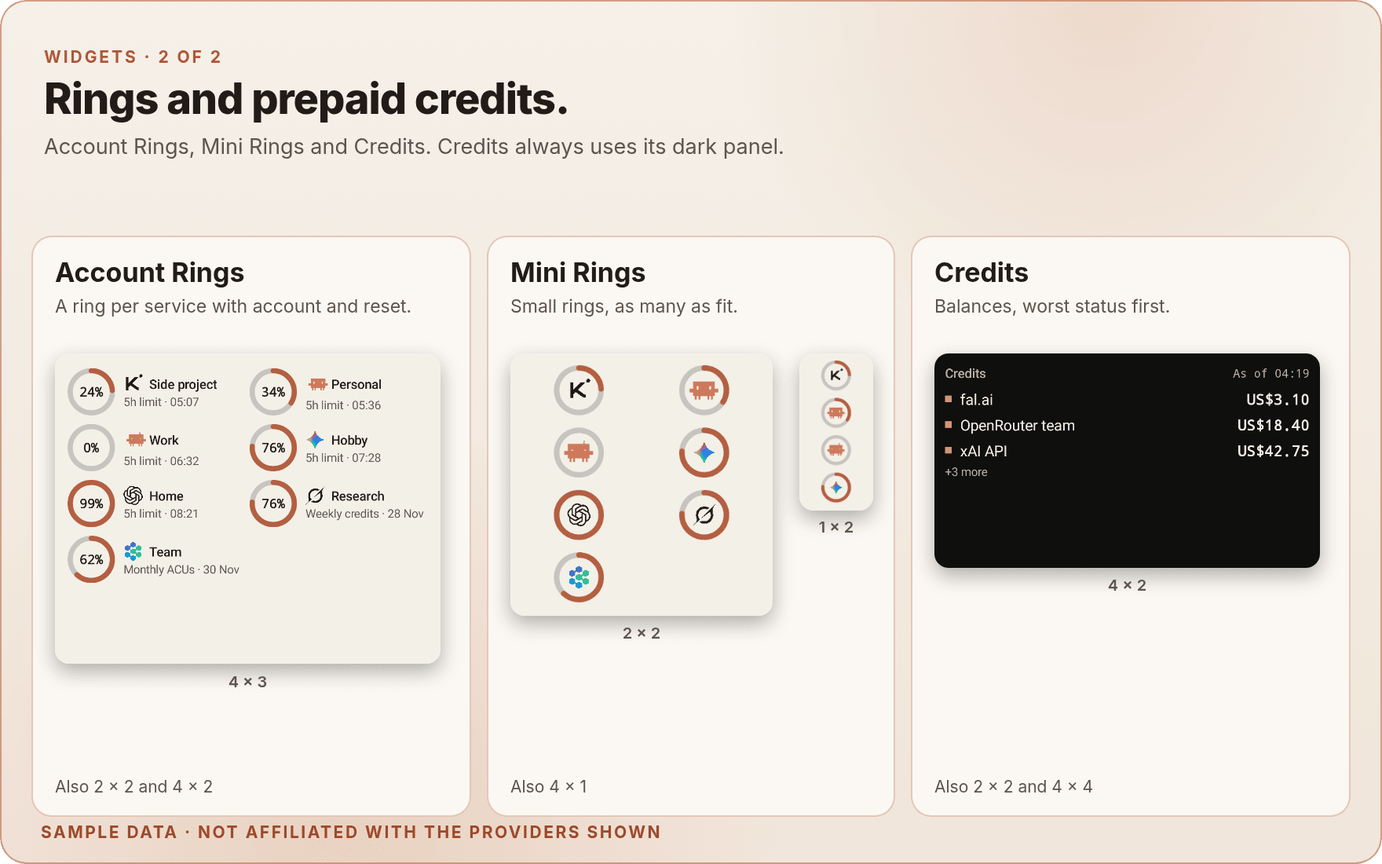
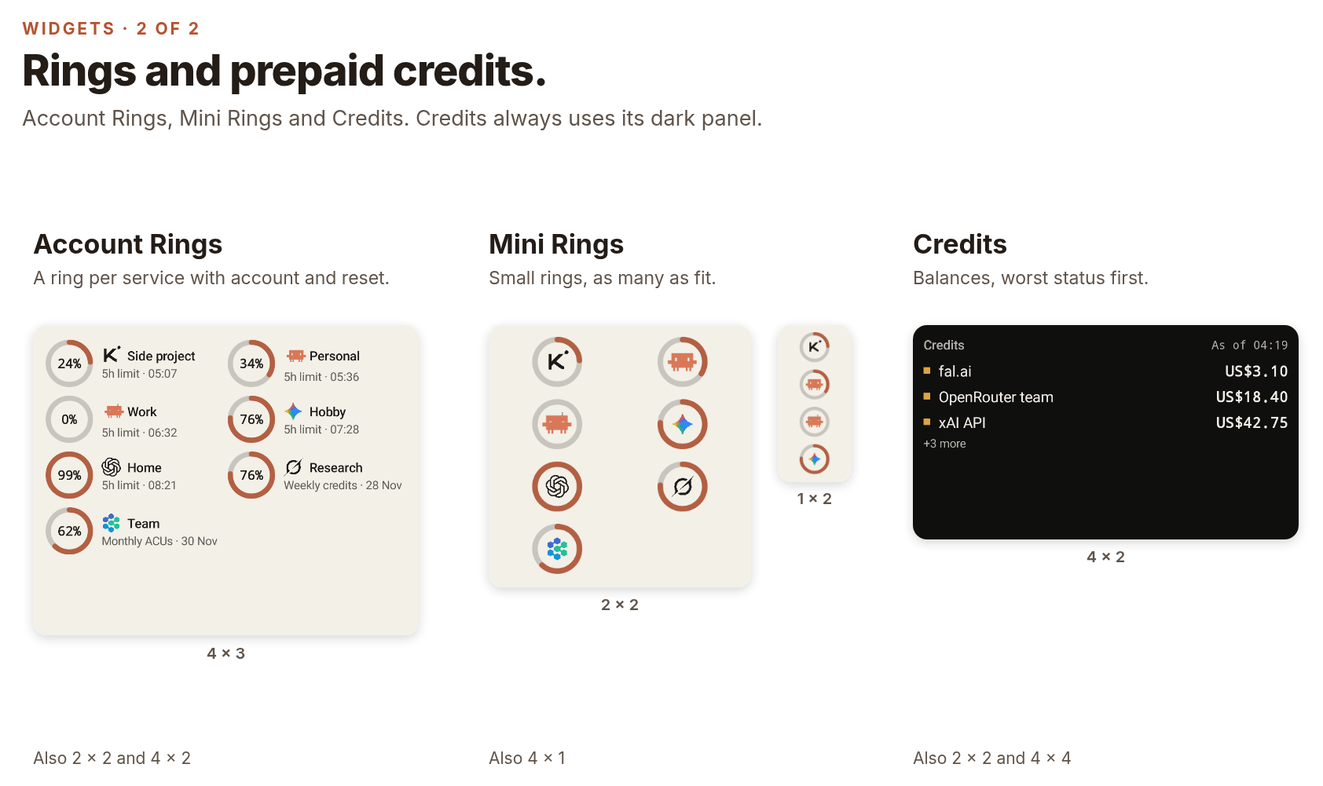
Restructure the README around the transparent 0.5.0 image set.
Replace the on-image footer and card backgrounds with tightly cropped
transparent light/dark PNG (and WebP) pairs. Condense the README to six
H2 sections, a nav line under the hero, and a compact badge row that
puts the v0.4.1 Orion Store button next to GitHub Releases and the MIT
badge. Keep the facts, point longer notes at docs and ADRs, and leave
main untouched.

diff --git a/README.md b/README.md
@@ -5,14 +5,12 @@
 <p align="center">Usage readings and reset times for supported AI subscriptions, plus prepaid API balances, in the app and on home-screen widgets.</p>
 
 <p align="center">
-<a href="#build-it-yourself"><img src="docs/01-terracotta/android-badge.png" height="25" alt="Android 8.0+"></a> <a href="#build-it-yourself"><img src="docs/01-terracotta/ios-badge.png" height="25" alt="iOS 16.0+"></a> <a href="#build-it-yourself"><img src="docs/01-terracotta/source-badge.png" height="25" alt="Build from source"></a>
+  <a href="https://rookieenough.github.io/Orion-Data/redirect.html?id=firefin"><img src="https://raw.githubusercontent.com/RookieEnough/Orion-Store/refs/heads/main/assets/orion-badge.png" height="44" alt="Get it on Orion Store"></a>
+  &nbsp;
+  <a href="https://github.com/ZepiGit/Usage-Limit-Viewer-Mobile/releases/tag/v0.5.0"><img src="https://img.shields.io/github/v/release/ZepiGit/Usage-Limit-Viewer-Mobile?label=GitHub%20Releases&style=for-the-badge" height="44" alt="Download v0.5.0 from GitHub Releases"></a>
+  &nbsp;
+  <a href="LICENSE"><img src="https://img.shields.io/github/license/ZepiGit/Usage-Limit-Viewer-Mobile?style=for-the-badge" height="44" alt="MIT license"></a>
 </p>
-
-<p align="center"><a href="#what-the-app-does">What it does</a> · <a href="#supported-services">Services</a> · <a href="#prepaid-credits">Credits</a> · <a href="#widgets">Widgets</a> · <a href="#your-data">Your data</a> · <a href="#build-it-yourself">Build</a></p>
-
-> **[0.5.0 is published](https://github.com/ZepiGit/Usage-Limit-Viewer-Mobile/releases/tag/v0.5.0).** The release carries the signed Android APK and AAB, the R8 mapping and the unsigned iOS archive. Its tag points at `b8d861f`, and `main` has the same source tree. The release workflow passed Android unit tests and lint, the shared Swift tests and the API 37 emulator smoke before packaging. Physical-device checks remain open. See [release evidence and remaining gates](docs/release.md#release-050-checkpoint).
->
-> Install the signed APK from the [0.5.0 release](https://github.com/ZepiGit/Usage-Limit-Viewer-Mobile/releases/tag/v0.5.0), or build from source. A debug APK from an Android run under **Actions** is a separate build; match it to its commit.
 
 <p align="center">
   <picture>
@@ -21,11 +19,18 @@
   </picture>
 </p>
 
-<sub>Screenshots use sample data. Usage Limit Viewer is not affiliated with any of the providers shown; names and logos belong to their owners. Android captures are native Compose views in Pixel 11 and Pixel 11 Pro Fold frames (Pure black and Light paper).</sub>
+<p align="center"><sub>Screenshots use sample data. Usage Limit Viewer is not affiliated with any of the providers shown; names and logos belong to their owners.</sub></p>
 
-## What the app does
+<p align="center"><a href="#features">Features</a> · <a href="#widgets">Widgets</a> · <a href="#services">Services</a> · <a href="#appearance">Appearance</a> · <a href="#your-data">Privacy</a> · <a href="#install">Install</a></p>
+
+## Features
 
 Connect a supported subscription to read its usage windows and reset times. Both native apps have three destinations: **Overview**, **Resets** and **Settings**. Account management starts in Overview; there is no separate Accounts tab.
+
+<picture>
+  <source media="(prefers-color-scheme: dark)" srcset="docs/images/readme/02-overview-dark.png">
+  <img src="docs/images/readme/02-overview-light.png" width="880" alt="Overview as a list and as dials: Claude Max 5x exhausted, Kimi 24%, Claude Pro 34%, Devin 62%, Grok and Antigravity 76% left.">
+</picture>
 
 | Destination | What it shows |
 | :--- | :--- |
@@ -33,43 +38,30 @@ Connect a supported subscription to read its usage windows and reset times. Both
 | Resets | Recorded upcoming resets, grouped by day |
 | Settings | Appearance, display mode, Overview layout, icons, sync and notifications |
 
-The app also supports:
+Choose **Settings → Overview → Layout** for **List** or **Dials**. List shows every usage window and emphasises the account's **headline**. Dials shows one headline ring per account; tap either layout for the same detail screen. Overview sorts automatically, lowest headline first. In List you can filter **All**, **Needs attention** (expired sign-ins only) or **Resets today**. **Settings → Display → Show percentages as** and the Overview chip write the same **Left/Used** choice. More detail lives in the [Overview and Settings notes](docs/widgets.md#percentages-left-or-used) and [ADR 0002](docs/adr/0002-one-account-headline-per-platform.md).
 
-- **Several accounts per service.** Each identity keeps its own usage windows.
-- **Retained readings.** A failed refresh keeps the previous readings and their age. A passed reset is marked **Reset due**, not treated as a fresh allowance.
-- **In German too.** The app and its widgets follow the device language and come in English
-  and German. Names the services report, such as model names, are shown as they arrive.
-- **Status icons.** Pin up to three accounts and see each one's figure next to the clock on
-  Android, or on the Lock Screen on iPhone. Off until you turn it on. See
-  [Status icons](docs/status-icons.md).
-- **No model calls.** The app only asks each service for your usage. It never sends a prompt,
-  so checking your limits never costs you any of them.
+The app also supports several accounts per service, retained readings after a failed refresh (a passed reset is marked **Reset due**, not a fresh allowance), English and German, and it never sends a prompt — it only asks each service for your usage.
 
-<picture>
-  <source media="(prefers-color-scheme: dark)" srcset="docs/images/readme/02-overview-dark.png">
-  <img src="docs/images/readme/02-overview-light.png" width="880" alt="Overview as a list and as dials: Claude Max 5x exhausted, Kimi 24%, Claude Pro 34%, Devin 62%, Grok and Antigravity 76% left.">
-</picture>
+Upcoming resets, grouped by day, with a live countdown:
 
 <picture>
   <source media="(prefers-color-scheme: dark)" srcset="docs/images/readme/03-resets-dark.png">
   <img src="docs/images/readme/03-resets-light.png" width="880" alt="Resets screen: upcoming 5-hour and weekly resets grouped by day, with 24-hour times and live countdowns.">
 </picture>
 
+Every window of one account, including weekly (Opus) and other per-model limits:
+
 <picture>
   <source media="(prefers-color-scheme: dark)" srcset="docs/images/readme/04-account-detail-dark.png">
   <img src="docs/images/readme/04-account-detail-light.png" width="880" alt="Claude Max 5x detail with 5-hour (0% left), weekly (59%) and weekly Opus (37%) limits, next to the Claude Pro detail at 34% left.">
 </picture>
 
-### Status icons
-
-Pin up to three accounts. Each shows its glyph and figure in the Android status bar and notification shade, or on the iPhone Lock Screen. Off until you turn it on. See [Status icons](docs/status-icons.md).
+Pin up to three accounts and see each one's glyph and figure next to the clock on Android, or on the Lock Screen on iPhone. Off until you turn it on. See [Status icons](docs/status-icons.md).
 
 <picture>
   <source media="(prefers-color-scheme: dark)" srcset="docs/images/readme/05-status-bar-icons-dark.png">
   <img src="docs/images/readme/05-status-bar-icons-light.png" width="880" alt="Status bar icon settings with three pinned accounts, the notification shade, and an enlarged status bar: Codex 99% left, Claude exhausted, Grok 76% left.">
 </picture>
-
-### Alerts
 
 The app can warn you below 20% and 10% left, when a limit is exhausted, when a reset is approaching, when credits are low, and when a sign-in has expired. Each alert type can be switched off, including per account.
 
@@ -78,66 +70,70 @@ The app can warn you below 20% and 10% left, when a limit is exhausted, when a r
   <img src="docs/images/readme/06-notifications-light.png" width="880" alt="Alert settings for 20% and 10% warnings, exhausted limits, resets and expired sign-ins, next to three status notifications for Codex, Claude and Grok.">
 </picture>
 
-<a id="android-overview-and-settings"></a>
-
-## Overview and Settings
-
-Choose **Settings → Overview → Layout** for **List** or **Dials**. List shows every usage window and emphasises the account's **headline**. Dials shows one headline ring per account, without filters. Tap either layout's account to open the same detail screen, including every window, refresh, reconnect, alerts and removal. **Show subscription tier** affects List titles, not Dial names. Reset stamps stay visible; there is no Show renewal time switch.
-
-The headline follows [ADR 0002](docs/adr/0002-one-account-headline-per-platform.md): prefer windows not reset due, then global windows, then exhaustion and the lowest known percentage left. An account's status mark can reflect a worse model-specific window without making it the headline.
-
-Overview sorts automatically: expired sign-ins first, then the headline's unrounded percentage left, lowest first. Provider-declared exhaustion ranks as zero; unknown figures come last within each sign-in group. Ties use account-added time, then ID. **Used** does not change this order. There is no manual reorder; pins, Provider-scoped widgets and Custom selections retain their separate [order contracts](docs/adr/0004-automatic-overview-order-and-stored-order.md).
-
-In List, choose one filter:
-
-- **All** shows every usage account.
-- **Needs attention** shows expired sign-ins only, not low or exhausted allowance, stale readings or ordinary refresh failures.
-- **Resets today** shows accounts with a recorded reset after now and before the next local day starts, not the next 24 hours.
-
-Switching to another primary destination or to Dials returns the filter to All; opening an account detail and returning keeps it. The header counts expired sign-ins across all accounts. “All accounts have room” appears only when every headline is current, known, non-exhausted and above 20% left. Its next-reset time comes from connected accounts, independently of the filter.
-
-**Settings → Display → Show percentages as** and the Overview percentage chip write the same **Left/Used** choice. Figures, bar lengths and ring arcs follow it; severity, account order, mood and alert thresholds still follow what is left. [Percentage details](docs/widgets.md#percentages-left-or-used) cover unknown and stale readings. The previews show the chosen display mode and layout without changing real accounts. For prepaid controls and hidden balances on both platforms, see [Credit balances](docs/credits.md#credits-in-overview).
-
-### App appearance and fonts
-
-Under **Settings → Appearance**, both apps offer **Warm dark**, **Pure black** (default), **Cool graphite** and **Light paper**. Android text choices start with system **Roboto**; iOS starts with Apple's **System** text. Both also offer **Roboto Flex**, **IBM Plex Sans** and **Figtree**. Choose **Roboto Mono** (default), **JetBrains Mono** or **IBM Plex Mono** independently for percentages, times and amounts. The preview reacts immediately; no restart is required.
+The same Android build adapts to phones and foldables. On a wide inner display, navigation moves to a side rail. See [Device compatibility](docs/compatibility.md).
 
 <picture>
-  <source media="(prefers-color-scheme: dark)" srcset="docs/images/readme/11-themes-dark.png">
-  <img src="docs/images/readme/11-themes-light.png" width="880" alt="Overview in the Warm dark, Pure black, Cool graphite and Light paper themes, each with a colour swatch and a short description.">
+  <source media="(prefers-color-scheme: dark)" srcset="docs/images/readme/13-foldable-showcase-dark.png">
+  <img src="docs/images/readme/13-foldable-showcase-light.png" width="880" alt="Unfolded Pixel 11 Pro Fold showing the account list with a side navigation rail, plus a smaller unfolded view with the dials layout.">
 </picture>
 
-Open **Font licences** in that section for the six bundled families' offline notices. Their pinned sources, versions, checksums and full licences are in the [canonical font manifest](third_party/fonts/manifest.json) and [font notes](third_party/fonts/README.md). These choices affect the app, not placed widgets or their configuration previews ([ADR 0005](docs/adr/0005-app-and-widget-appearance.md)). iOS bundles the canonical font files and licences in the app only, not its widget extension. The first app-controlled interface waits for saved preferences; iOS shows a neutral root while loading them. This is implemented behavior, not physical cold-launch proof.
+<details>
+<summary>Animated tour (7 screens, Android, sample data)</summary>
 
-On a German device, use **Einstellungen → Übersicht → Layout → Liste/Ringe**, **Anzeige → Prozente anzeigen als**, or **Erscheinungsbild** for **Textschrift**, **Ziffernschrift** and **Schriftlizenzen**. The List filters are **Alle**, **Braucht Aufmerksamkeit** and **Resets heute**.
+<p align="center">
+  <picture>
+    <source media="(prefers-color-scheme: dark)" srcset="docs/images/readme/14-app-tour-dark.webp">
+    <img src="docs/images/readme/14-app-tour-light.webp" width="360" alt="Animated tour on a Pixel 11 through overview list, dials, credits, resets, status bar icons, alerts and appearance.">
+  </picture>
+</p>
 
-### Claude Code mood and Hooray
+</details>
 
-Under **Settings → Provider icons → Claude**, the **Claude Code · Color** and **Claude Code · Monochrome** choices use the account's headline for their figure. Other artwork stays static. Mood uses raw percentage left, never the rounded or Used figure:
+## Widgets
+
+Pick the style that fits your home screen. Each configurable usage widget can show all accounts, one service, one account, or a Custom selection. Every usage widget follows the app's left/used display mode; the Credits widget shows money instead.
 
 <picture>
-  <source media="(prefers-color-scheme: dark)" srcset="docs/images/readme/12-claude-moods-dark.png">
-  <img src="docs/images/readme/12-claude-moods-light.png" width="880" alt="Six Claude Code figure moods: Asleep, Tired, Working, Idle, Dancing and Hooray, with the % left (or, for Hooray, the reset) that triggers each.">
+  <source media="(prefers-color-scheme: dark)" srcset="docs/images/readme/08-widgets-usage-dark.png">
+  <img src="docs/images/readme/08-widgets-usage-light.png" width="880" alt="Usage Summary widget (4×1 and 2×2) for Claude Pro at 34% left, and the Usage Bars widget (4×4 and 2×2) listing accounts by closest reset.">
 </picture>
 
-| Raw headline percentage left | Steady mood |
+<picture>
+  <source media="(prefers-color-scheme: dark)" srcset="docs/images/readme/09-widgets-rings-credits-dark.png">
+  <img src="docs/images/readme/09-widgets-rings-credits-light.png" width="880" alt="Account Rings (4×3), Mini Rings (2×2 and 1×2) and Credits (4×2) widgets with sample data.">
+</picture>
+
+| Style | What it shows |
 | :--- | :--- |
-| 0, or provider-declared exhaustion even with a positive or missing figure | Asleep |
-| Above 0 through 20 | Tired |
-| Above 20 through 50 | Working |
-| Above 50 through 90 | Idle |
-| Above 90 | Dancing |
-| No known figure, without declared exhaustion | Idle |
+| **Usage Summary** | One account in a compact row, with both limits and the next reset |
+| **Usage Bars** | A list of accounts with their bars and reset times |
+| **Account Rings** | A ring around each service's logo, with the name and reset time |
+| **Mini Rings** | Small rings, as many as fit |
+| **Credits** | Prepaid balances, worst status first |
 
-A stale reading or expired sign-in can retain its last mood; passing a reset time is not evidence of a refill. **Animate Claude Code icon** is on by default for the two eligible choices. Turn it off for still poses; Android's **Remove animations** and iOS **Reduce Motion** also stop movement. The figure stops outside its visible, active screen. In Resets it always uses Hooray, including its still pose when motion is off.
+Widgets keep their own appearance when the app's theme or fonts change, and they show cached readings. More about how they stay current: [docs/widgets.md](docs/widgets.md).
 
-Both apps remember a reset only when a new measured reading confirms the same account/window's dated rollover: the previous reading preceded its advertised reset, the new reading reaches or passes it, and the next reset has advanced into the future. An increase in allowance, clock crossing, first reading or failed refresh does not qualify.
+<details>
+<summary>Which widgets work on which iOS version</summary>
 
-At the next qualifying main-app opening, the app claims the mark before refreshing. After the loaded, active screen's first ready placement, each qualifying account with a visible eligible figure gets one shared four-second Hooray presentation. Motion off uses its still pose for the same time. Android counts a process foreground transition with the main activity started; recreation, resume alone and widget configuration do not count. iOS counts initial activation and a return from background to active, not an inactive-only interruption. Returning from browser sign-in counts only when the platform's opening rule applies.
+| Widget | iOS | Notes |
+| :--- | :--- | :--- |
+| **Usage Bars** | 17+ | Small, medium and large. Choose an account, a service or your own selection. |
+| **Account Rings** | 17+ | A grid of rings with names and reset times. |
+| **Mini Rings** | 17+ | Compact rings with logos. |
+| **Credits** | 16+ | Prepaid balances, worst status first; the small tile centers its balance and status. |
+| **Usage Limits** | 16+ | Usage tiles in three sizes, also on the Lock Screen. |
+| **Usage Limits (Clear)** | 16+ | The same tiles on a transparent background. |
+| **Pinned accounts** | 16+ | Up to three pinned accounts on the Lock Screen, as glyph and figure. See [Status icons](docs/status-icons.md). |
+| **Usage Ring** | 16+ | One account as a ring, also as a round Lock Screen widget. |
 
-An interrupted or unseen opportunity does not replay later. Placed Usage Bars, Account Rings and Mini Rings use each account's steady mood, never Hooray; configuration keeps static catalog artwork. Both implementations use the same dated-reset vectors. See [release evidence and remaining device gates](docs/release.md#release-050-checkpoint). Real foreground transitions, first placement and animation pacing still need device checks.
+Usage Limits, Usage Limits (Clear) and Usage Ring pick accounts by the app's own ranking. Pinned accounts shows the accounts you pin in the app. To choose accounts for a Home Screen widget, use the configurable iOS 17 widgets.
 
-## Supported services
+</details>
+
+## Services
+
+Nine subscriptions and six prepaid credit APIs. Both Android and iOS support all nine subscriptions. Not every sign-in has been tried with a real account yet, and Kimi may still need to approve the app's name before its sign-in can read usage (a pasted key works either way).
 
 <picture>
   <source media="(prefers-color-scheme: dark)" srcset="docs/images/readme/10-providers-dark.png">
@@ -156,30 +152,11 @@ An interrupted or unseen opportunity does not replay later. Placed Usage Bars, A
 | **Z.ai GLM Coding Plan** | Five-hour, weekly and monthly limits, on z.ai or bigmodel.cn | API key |
 | **OpenCode Go** | Five-hour, weekly and monthly limits | API key |
 
-Both Android and iOS support all nine. Not every sign-in has been tried with a real account
-yet, and Kimi may still need to approve the app's name before its sign-in can read usage
-(a pasted key works either way).
+For Claude, Codex, Antigravity and Devin you sign in on the service's own web page, in your normal browser. The app never sees your password; it only receives the sign-in result. A **Sign-in** notification keeps the app awake so it can catch that result (Android 14 and later can pause background apps while the browser is open). If signing in takes longer than three minutes, the notification asks you to come back to the app.
 
-**Why isn't my service here?** Some were looked at and left out on purpose. GitHub Copilot
-and Warp only answer apps that pretend to be their own tools. Gemini CLI no longer accepts
-personal Google accounts (Antigravity covers that now). Cursor, Perplexity, Mistral, Zed and
-Qwen only work with browser cookies. Vertex AI counts quota per cloud project, not per person.
-See the [provider policy](docs/release.md#owner-responsibilities).
+**Why isn't my service here?** Some were left out on purpose. GitHub Copilot and Warp only answer apps that pretend to be their own tools. Gemini CLI no longer accepts personal Google accounts (Antigravity covers that now). Cursor, Perplexity, Mistral, Zed and Qwen only work with browser cookies. Vertex AI counts quota per cloud project, not per person. See the [provider policy](docs/release.md#owner-responsibilities).
 
-### Signing in
-
-For Claude, Codex, Antigravity and Devin you sign in on the service's own web page, in your
-normal browser. The app never sees your password; it only receives the sign-in result.
-
-While that page is open you'll see a small **Sign-in** notification. It keeps the app awake
-so it can catch the result: Android 14 and later can pause background apps while the
-browser is open. If signing in takes longer than three
-minutes, the notification asks you to come back to the app, and that finishes it.
-
-## Prepaid credits
-
-If you use AI through API keys, the **Credits** section shows how much money is left on
-each account, in that account's currency, and warns you when it gets low.
+If you use AI through API keys, the **Credits** section shows how much money is left on each account, in that account's currency, and warns you when it gets low.
 
 <picture>
   <source media="(prefers-color-scheme: dark)" srcset="docs/images/readme/07-api-credits-dark.png">
@@ -195,99 +172,51 @@ each account, in that account's currency, and warns you when it gets low.
 | **fal.ai** | A key with billing access |
 | **Novita** | Your normal API key |
 
-**Anthropic and OpenAI can't be shown.** Neither offers a way to read the remaining balance
-with an API key, so the app says so instead of guessing.
+**Anthropic and OpenAI can't be shown.** Neither offers a way to read the remaining balance with an API key, so the app says so instead of guessing. Set a low-balance threshold per account, and choose Normal or Compact under **Settings → Overview**. See [Credit balances](docs/credits.md).
 
-Set a low-balance threshold per account. Credits refresh with usage, and the Credits widget lists balances worst first in three sizes. On both platforms, choose Normal or Compact, change the block order, or hide it under **Settings → Overview**. **Show credits** precedes dependent controls; the changing Overview preview follows all controls. **Manage credit accounts** remains available when hidden. Compact compares each current balance with its own threshold, not nominal amounts across currencies. With credit accounts but no usage accounts, Overview says **No usage accounts yet** and keeps one visible Add credit path; collapsed Compact retains the secondary path. See [Credit balances](docs/credits.md).
+## Appearance
 
-## Widgets
-
-Pick the style that fits your home screen:
-
-- **Usage Summary:** one account in a compact row, with both limits and the next reset.
-- **Usage Bars:** a list of accounts with their bars and reset times.
-- **Account Rings:** a ring around each service's logo, with the name and reset time.
-- **Mini Rings:** small rings, as many as fit.
-- **Credits:** prepaid balances, worst status first.
+Under **Settings → Appearance**, both apps offer **Warm dark**, **Pure black** (default), **Cool graphite** and **Light paper**, plus bundled text and figure fonts. The preview reacts immediately; no restart is required. These choices affect the app, not placed widgets ([ADR 0005](docs/adr/0005-app-and-widget-appearance.md)). Font licences are listed under **Font licences** and in the [canonical font manifest](third_party/fonts/manifest.json).
 
 <picture>
-  <source media="(prefers-color-scheme: dark)" srcset="docs/images/readme/08-widgets-usage-dark.png">
-  <img src="docs/images/readme/08-widgets-usage-light.png" width="880" alt="Usage Summary widget (4×1 and 2×2) for Claude Pro at 34% left, and the Usage Bars widget (4×4 and 2×2) listing accounts by closest reset.">
+  <source media="(prefers-color-scheme: dark)" srcset="docs/images/readme/11-themes-dark.png">
+  <img src="docs/images/readme/11-themes-light.png" width="880" alt="Overview in the Warm dark, Pure black, Cool graphite and Light paper themes, each with a colour swatch and a short description.">
 </picture>
+
+Under **Settings → Provider icons → Claude**, the **Claude Code** choices use the account's headline for their figure. Mood uses raw percentage left, never the rounded or Used figure. In Resets the figure always uses Hooray. See [release evidence](docs/release.md#release-050-checkpoint) for how a confirmed reset is remembered.
 
 <picture>
-  <source media="(prefers-color-scheme: dark)" srcset="docs/images/readme/09-widgets-rings-credits-dark.png">
-  <img src="docs/images/readme/09-widgets-rings-credits-light.png" width="880" alt="Account Rings (4×3), Mini Rings (2×2 and 1×2) and Credits (4×2) widgets with sample data.">
+  <source media="(prefers-color-scheme: dark)" srcset="docs/images/readme/12-claude-moods-dark.png">
+  <img src="docs/images/readme/12-claude-moods-light.png" width="880" alt="Six Claude Code figure moods: Asleep, Tired, Working, Idle, Dancing and Hooray, with the % left (or, for Hooray, the reset) that triggers each.">
 </picture>
 
-Each configurable usage widget can show all accounts, one service, one account, or a Custom selection in its saved order. **All accounts** follows Overview's automatic headline order. Pinned status icons use the stored account order instead; choosing pins does not reorder them. Android requests that notification order, but SystemUI decides what appears ([ADR 0003 clarification](docs/adr/0003-status-icons-and-lock-screen-substitute.md#consequences)).
+| Raw headline percentage left | Steady mood |
+| :--- | :--- |
+| 0, or provider-declared exhaustion even with a positive or missing figure | Asleep |
+| Above 0 through 20 | Tired |
+| Above 20 through 50 | Working |
+| Above 50 through 90 | Idle |
+| Above 90 | Dancing |
+| No known figure, without declared exhaustion | Idle |
 
-Each platform's widgets keep their own appearance when app palettes or fonts change. Android usage widgets retain their background, opacity and text tone; iOS widgets retain their widget palette and system typography. Non-pinned ring widgets omit the visible Left/Used caption but retain it in speech. Widgets show cached readings; refresh requests a sync on Android and opens the app on iOS. Widget delivery remains system-controlled.
-
-Every usage widget follows the app's display mode, left or used. There is no separate setting
-per widget. Credits show money, so this does not apply to them.
-
-<details>
-<summary><strong>Which widgets work on which iOS version</strong></summary>
-
-| Widget | iOS | Notes |
-| :--- | :--- | :--- |
-| **Usage Bars** | 17+ | Small, medium and large. Choose an account, a service or your own selection. |
-| **Account Rings** | 17+ | A grid of rings with names and reset times. |
-| **Mini Rings** | 17+ | Compact rings with logos. |
-| **Credits** | 16+ | Prepaid balances, worst status first; the small tile centers its balance and status. |
-| **Usage Limits** | 16+ | Usage tiles in three sizes, also on the Lock Screen. |
-| **Usage Limits (Clear)** | 16+ | The same tiles on a transparent background. |
-| **Pinned accounts** | 16+ | Up to three pinned accounts on the Lock Screen, as glyph and figure. See [Status icons](docs/status-icons.md). |
-| **Usage Ring** | 16+ | One account as a ring, also as a round Lock Screen widget. |
-
-Usage Limits, Usage Limits (Clear) and Usage Ring pick accounts by the app's own ranking.
-Pinned accounts shows the accounts you pin in the app. To choose accounts for a Home Screen widget,
-use the configurable iOS 17 widgets. Every widget follows the app's left/used setting, on every
-iOS version.
-
-</details>
-
-More about how widgets stay current: [docs/widgets.md](docs/widgets.md).
-
-## Device compatibility
-
-The same Android build adapts to phones and foldables. On a wide inner display, navigation moves to a side rail so more of every account is visible. See [Device compatibility](docs/compatibility.md) for supported versions and form factors.
-
-<picture>
-  <source media="(prefers-color-scheme: dark)" srcset="docs/images/readme/13-foldable-showcase-dark.png">
-  <img src="docs/images/readme/13-foldable-showcase-light.png" width="880" alt="Unfolded Pixel 11 Pro Fold showing the account list with a side navigation rail, plus a smaller unfolded view with the dials layout.">
-</picture>
-
-## App tour
-
-<details>
-<summary>Animated tour (7 screens, Android, sample data)</summary>
-
-<p align="center">
-  <picture>
-    <source media="(prefers-color-scheme: dark)" srcset="docs/images/readme/14-app-tour-dark.webp">
-    <img src="docs/images/readme/14-app-tour-light.webp" width="360" alt="Animated tour on a Pixel 11 through overview list, dials, credits, resets, status bar icons, alerts and appearance.">
-  </picture>
-</p>
-
-</details>
-
-The [archived app tour](docs/01-terracotta/DEMO.md) shows an earlier interface, including the removed Accounts destination. Its [asset notes](docs/01-terracotta/ASSET-SOURCES.md) distinguish illustrations from old iOS simulator captures. It is not a walkthrough of 0.5.0. The README images above are Robolectric captures of native Compose views in device frames, with sample data; they are not physical-device photographs. The [selected Android captures](docs/release.md#selected-android-captures) show earlier redesign revisions; the older `docs/redesign/after` directory predates this release too. Physical-device captures remain pending.
+On a German device, use **Einstellungen → Übersicht → Layout → Liste/Ringe**, **Anzeige → Prozente anzeigen als**, or **Erscheinungsbild** for **Textschrift**, **Ziffernschrift** and **Schriftlizenzen**. The List filters are **Alle**, **Braucht Aufmerksamkeit** and **Resets heute**.
 
 ## Your data
 
-- **Nothing goes through us.** The app talks straight to each service with your own account.
-  There is no server, no proxy and no tracking.
-- **Keys and tokens stay locked away**, in the Android Keystore or the iOS Keychain. They
-  are never written to the usage database and never logged.
+Nothing goes through us: the app talks straight to each service with your own account. There is no server, no proxy and no tracking.
+
+- **Keys and tokens stay locked away**, in the Android Keystore or the iOS Keychain. They are never written to the usage database and never logged.
 - **Widgets only see numbers.** They read the cached usage, never your credentials.
 
-Several services don't officially publish the usage pages the app reads, so an update on
-their side can break a card until the app catches up. Details:
-[security model](docs/security.md) and [release checklist](docs/release.md#device-checklist).
+Several services don't officially publish the usage pages the app reads, so an update on their side can break a card until the app catches up. Details: [security model](docs/security.md) and [release checklist](docs/release.md#device-checklist).
 
-## Build it yourself
+## Install
+
+**[0.5.0 is published](https://github.com/ZepiGit/Usage-Limit-Viewer-Mobile/releases/tag/v0.5.0).** The release carries the signed Android APK and AAB, the R8 mapping and the unsigned iOS archive. Physical-device checks remain open; see [release evidence and remaining gates](docs/release.md#release-050-checkpoint).
+
+Get the signed Android APK from <a href="https://github.com/ZepiGit/Usage-Limit-Viewer-Mobile/releases/tag/v0.5.0">GitHub Releases</a> or from the Orion Store:&nbsp;<a href="https://rookieenough.github.io/Orion-Data/redirect.html?id=firefin"><img src="https://raw.githubusercontent.com/RookieEnough/Orion-Store/refs/heads/main/assets/orion-badge.png" height="40" alt="Get it on Orion Store" valign="middle"></a>
+
+A debug APK from an Android run under **Actions** is a separate build; match it to its commit. You can also build from source.
 
 **Android** (Android SDK Platform 37, JDK 21):
 
@@ -305,24 +234,20 @@ cd ios/UsageLimits && xcodegen generate         # create the Xcode project
 
 Then open the generated project in Xcode, set up signing and run it.
 
-## Documentation
-
 | If you want to… | Read |
 | :--- | :--- |
-| use the native Overview and Settings controls | [Overview and Settings](#overview-and-settings) |
+| use the native Overview and Settings controls | the [Features](#features) section above |
 | check whether your phone is supported | [Device compatibility](docs/compatibility.md) |
 | understand the widgets | [Widgets](docs/widgets.md) |
 | keep accounts in the status bar or on the Lock Screen | [Status icons](docs/status-icons.md) |
 | know how your data is protected | [Security](docs/security.md) |
-| set up a specific service | the `docs/providers-*` guides, e.g. [Codex](docs/providers-codex.md), [Kimi](docs/providers-kimi.md), [Z.ai](docs/providers-zai.md) |
+| set up a specific service | [Codex](docs/providers-codex.md), [Kimi](docs/providers-kimi.md), [Z.ai](docs/providers-zai.md) and the other `docs/providers-*` guides |
 | use the Credits section | [Credits](docs/credits.md) |
 
 For development, read the [Architecture](docs/architecture.md) and [Release guide](docs/release.md). Reviews check changes against the [Coding standards](CODING_STANDARDS.md).
 
-Found a problem or have a feature request? Please open an [issue](https://github.com/ZepiGit/Usage-Limit-Viewer-Mobile/issues/new/choose).
-For vulnerabilities, follow the [security policy](SECURITY.md) to report privately.
+Found a problem or have a feature request? Please open an [issue](https://github.com/ZepiGit/Usage-Limit-Viewer-Mobile/issues/new/choose). For vulnerabilities, follow the [security policy](SECURITY.md) to report privately.
 
-## License
+The [archived app tour](docs/01-terracotta/DEMO.md) shows an earlier interface, including the removed Accounts destination. The README images above are Robolectric captures of native Compose views in device frames, with sample data; they are not physical-device photographs. Physical-device captures remain pending.
 
-[MIT](LICENSE), copyright (c) 2026 ZepiGit. Third-party artwork notices and trademark
-rights remain as documented in [Provider artwork](docs/provider-assets.md).
+[MIT](LICENSE), copyright (c) 2026 ZepiGit. Third-party artwork notices and trademark rights remain as documented in [Provider artwork](docs/provider-assets.md).
